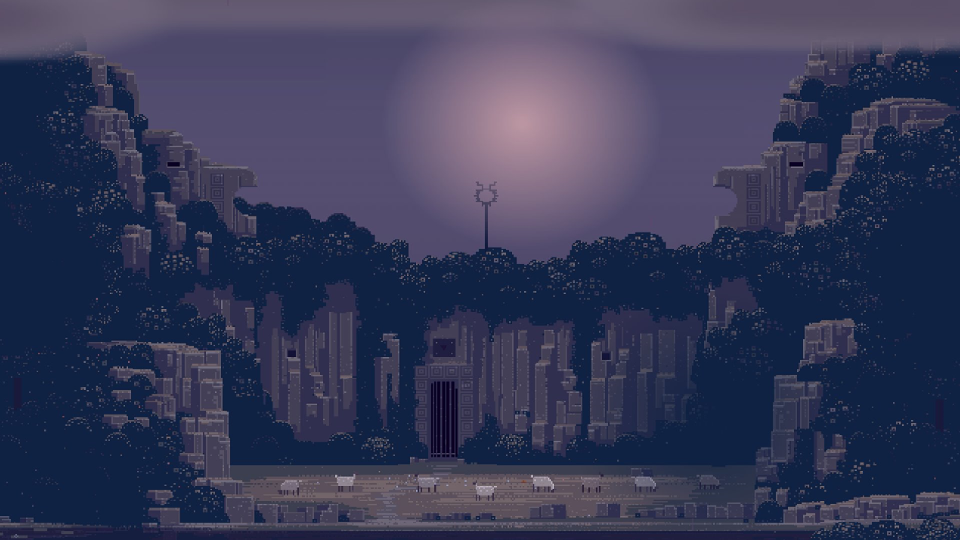
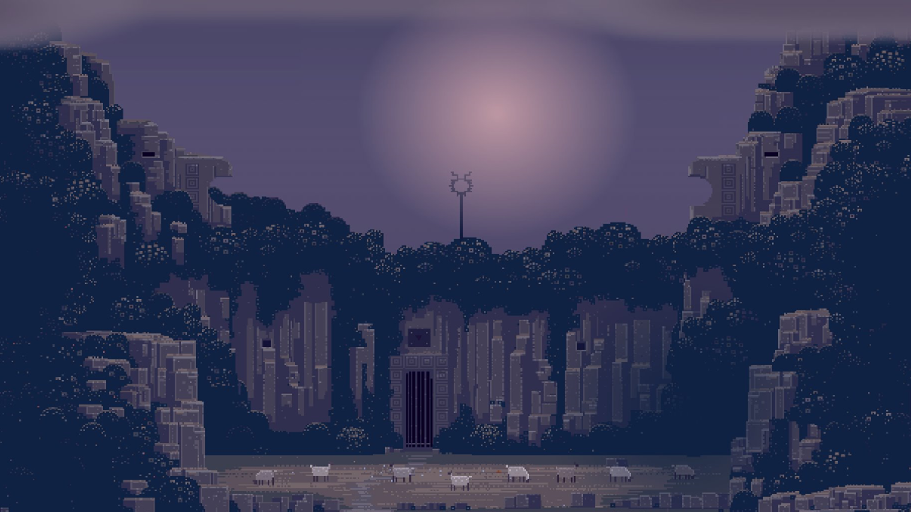
Исправил столкновения

diff --git a/DynamicUnit.cpp b/DynamicUnit.cpp
@@ -53,115 +53,64 @@ void DynamicUnit::Jump()
 void DynamicUnit::doUpdate(const UpdateState& us)
 {
     _pos.x += dx * us.dt;
+    updateCollideX();
 
     // 0.0005f это ускорение
     if(!on_ground)
         dy = dy + 0.0005f * us.dt;
 
     _pos.y += dy * us.dt;
+    
+    on_ground = false;
 
     // Обработка столкновений
-    updateCollide();
+    updateCollideY();
 
     setPosition(_pos);
 }
 
 
-void DynamicUnit::updateCollide()
+void DynamicUnit::updateCollideX()
 {
     /*
-     * Обработка столкновений
-     * FIXME: БАЖНО РАБОТАЕТ СТОЛКНОВЕНИЕ ПО X
+     * Обработка столкновений по x
      */
     const Vector2 &sz = getSize();
-
     const vector<vector<uint>> &map = _map_interaction;
-
     for(uint h=_pos.y/TILE_HEIGHT; h<(_pos.y+sz.y)/TILE_HEIGHT; h++)
         for(uint w=_pos.x/TILE_WIDTH; w<(_pos.x+sz.x)/TILE_WIDTH; w++)
         {
             if(map[h][w] != 0)
             {
-                if(dx != 0.f || dy != 0.f)
-                    on_collide();
+                if(dx>0) _pos.x = w * TILE_WIDTH - sz.x;
+                if(dx<0) _pos.x = w * TILE_WIDTH + TILE_WIDTH;
+            }
+        }
+}
 
-                // Если двигаемся вправо
-                if(dx > 0.f)
+void DynamicUnit::updateCollideY()
+{
+    /*
+     * Обработка столкновений по y
+     */
+    const Vector2 &sz = getSize();
+    const vector<vector<uint>> &map = _map_interaction;
+    for(uint h=_pos.y/TILE_HEIGHT; h<(_pos.y+sz.y)/TILE_HEIGHT; h++)
+        for(uint w=_pos.x/TILE_WIDTH; w<(_pos.x+sz.x)/TILE_WIDTH; w++)
+        {
+            if(map[h][w] != 0)
+            {
+                if(dy>0)
                 {
-                    // получаем правую точку
-                    const float right_point = _pos.x + sz.x;
-
-                    // получаем координату левого ребра блока который
-                    // находится под этой точкой
-                    const uint right_block_coord_x = static_cast<uint>(right_point / TILE_WIDTH);
-
-                    // Если эта координата текущая
-                    if(right_block_coord_x == w)
-                    {
-                        // тогда устанавливаем левую координату персонажа
-                        // в координату этого ребра
-                        _pos.x = right_block_coord_x * TILE_WIDTH;
-                    }
-                    // останавливаем персонажа
-                    dx = 0.f;
-                }
-                // Если двигаемся влево
-                else if(dx < 0.f)
-                {
-                    // находим левую точку блока персонажа
-                    const uint left_block_coord_x = static_cast<uint>(_pos.x / TILE_WIDTH);
-
-                    // если текущий блок это тот что под левой координатой
-                    if(left_block_coord_x == w)
-                    {
-                        // тогда устанавливаем левую координату персонажа
-                        // в правую координату блока
-                        _pos.x = left_block_coord_x * TILE_WIDTH + TILE_WIDTH;
-                    }
-
-                    // останавливаем персонажа
-                    dx = 0.f;
-                }
-
-                // Если двигаемся вниз
-                if(dy > 0.f)
-                {
-                    // получаем нижнюю точку
-                    const float bottom_point = _pos.y + sz.y;
-
-                    // получаем координату нижнего ребра блока который
-                    // находится под этой точкой
-                    const uint bottom_block_coord_y = static_cast<uint>(bottom_point / TILE_HEIGHT);
-
-                    // если это текущая координата
-                    if(bottom_block_coord_y == h)
-                    {
-                        // Тогда устанавливаем верхнюю координату персонажа
-                        // в верхнюю координату блока
-                        _pos.y = bottom_block_coord_y * TILE_HEIGHT + TILE_HEIGHT;
-                    }
-
-                    // персонаж на земле
+                    _pos.y = h * TILE_HEIGHT - sz.y;
+                    dy = dx = 0.f;
                     on_ground = true;
-                    // останавливаем персонажа
-                    dy = 0.f;
                 }
-                // двигаемся вверх (скорее всего прыгаем)
-                else if(dy < 0.f)
+                if(dy<0)
                 {
-                    // получаем верхнюю точку блока персоажа
-                    const uint top_block_coord_y = static_cast<uint>(_pos.y / TILE_HEIGHT);
-
-                    // если текущий блок это тот что под верхней координатой
-                    if(top_block_coord_y == h)
-                    {
-                        // тогда устанавливаем верхнюю координату персонажа
-                        // в нижнюю координату блока
-                        _pos.y = top_block_coord_y * TILE_HEIGHT + TILE_HEIGHT;
-                    }
-
-                    // останавливаем прыжок
+                    _pos.y = h * TILE_HEIGHT + TILE_HEIGHT;
                     dy = 0.f;
+                    
                 }
             }
         }

diff --git a/Level.h b/Level.h
@@ -12,6 +12,7 @@
 #include <string>
 #include <oxygine-framework.h>
 #include "ObjectLoader.h"
+#include "InputEvent.h"
 #include "GameStage.h"
 
 
@@ -22,7 +23,7 @@ using namespace oxygine;
 DECLARE_SMART(Level, spLevel);
 
 
-class Level : public GameStage
+class Level : public GameStage, public InputEvent
 {
 private:
     INHERITED(GameStage);
@@ -44,6 +45,9 @@ public:
     vector<vector<uint>> map_interaction;
 
     void doUpdate(const UpdateState& us) override;
+
+    void OnKeyDown(const SDL_KeyboardEvent& ev, const SDL_Scancode& key_scancode) override;
+    void OnKeyUp(const SDL_KeyboardEvent& ev, const SDL_Scancode& key_scancode) override;
 };
 
 #endif /* LEVEL_H */

diff --git a/StartMenu.cpp b/StartMenu.cpp
@@ -32,7 +32,7 @@ StartMenu::StartMenu()
     start_btn->setAnchor(0.5f, 0.5f);
     start_btn->addEventListener(TouchEvent::CLICK, CLOSURE(this, &StartMenu::on_start_click));
     start_btn->addEventListener(TouchEvent::OVER, ncb);
-    Vector2 pos(460.f, 280.f);
+    Vector2 pos(455.5f, 128.f);
     start_btn->setPosition(pos);
     addChild(start_btn);
 
@@ -75,7 +75,7 @@ GameError StartMenu::make_next_level()
     {
         return err;
     }
-    _next_level->setPosition(0.f, 305.f);
+    _next_level->setPosition(0.f, 15.f);
 
     Exit();
 

diff --git a/Level.cpp b/Level.cpp
@@ -191,3 +191,16 @@ void Level::doUpdate(const UpdateState& us)
         setX(stage_half_width - player_pos_x);
     }
 }
+
+
+void Level::OnKeyDown(const SDL_KeyboardEvent& ev, const SDL_Scancode& key_scancode)
+{
+    
+}
+
+
+void Level::OnKeyUp(const SDL_KeyboardEvent& ev, const SDL_Scancode& key_scancode)
+{
+    if(key_scancode == SDL_Scancode::SDL_SCANCODE_ESCAPE)
+        is_zombie = true;
+}

diff --git a/CollidedUnit.cpp b/CollidedUnit.cpp
@@ -21,8 +21,8 @@ StaticUnit(pos)
     setResAnim(p_res_anim, res_col, res_row);
     //setResAnim(p_res_anim, 6, 0);
 
-    //setScale(1.f);
-    //setAnchor(0.5f, 0.5f);
+    //setScale(2.f);
+    //setAnchor(0.f, 0.f);
     
 /*#ifdef DBG
     spDebugRectSprite sprite = new DebugRectSprite(Color::Black, Vector2(TILE_WIDTH, TILE_HEIGHT));

diff --git a/main.cpp b/main.cpp
@@ -53,8 +53,9 @@ void run()
     desc.title = "My oxygine game";
 
     // The initial window size can be set up here on SDL builds, ignored on Mobile devices
-    desc.w = 960;
-    desc.h = 544;
+    desc.w = 911;
+    desc.h = 512;
+    // desc.fullscreen = true;
 
     Game stage;
 

diff --git a/DynamicUnit.h b/DynamicUnit.h
@@ -30,7 +30,8 @@ private:
     vector<vector<uint>> _map_interaction;
 
     // Обработка столкновений
-    void updateCollide();
+    void updateCollideX();
+    void updateCollideY();
 
 protected:
     float dx, dy;

diff --git a/Player.cpp b/Player.cpp
@@ -19,7 +19,7 @@ using namespace std;
 Player::Player(const Vector2 &pos):
 DynamicUnit(pos)
 {
-    //setAnchor(0.0f, 0.7f);
+    //setAnchor(0.f, 0.f);
 
 /*#ifdef DBG
     // тестовая кнопка
